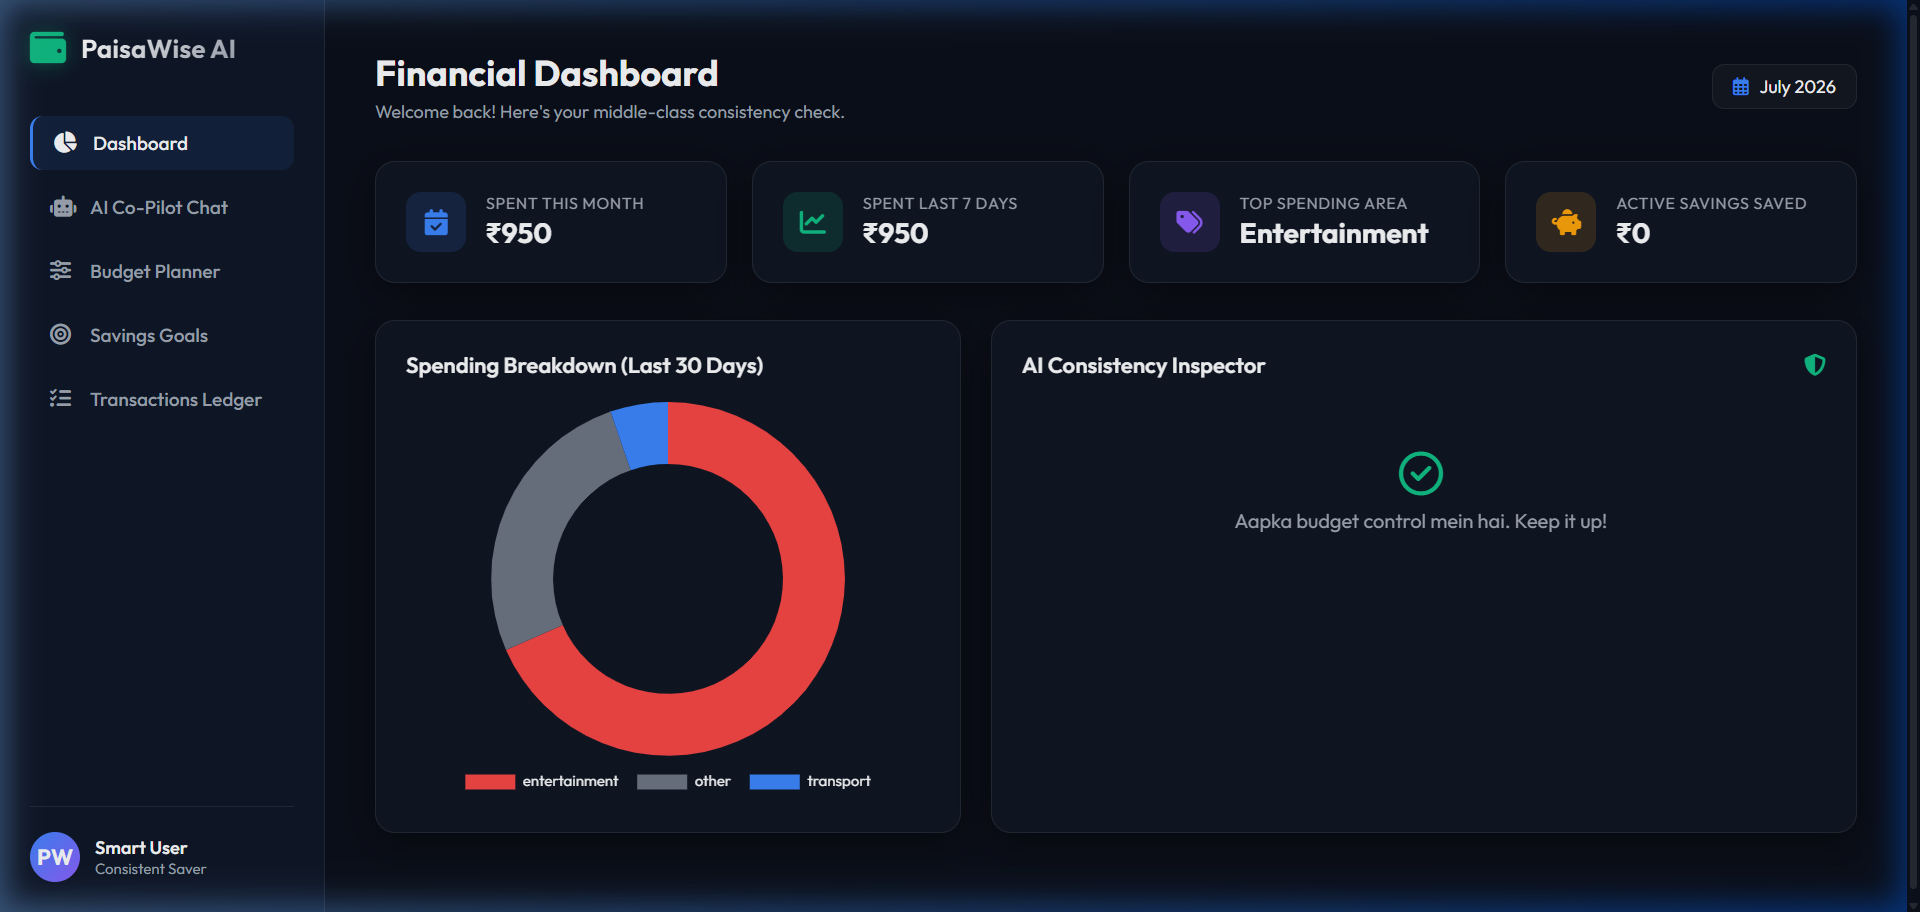
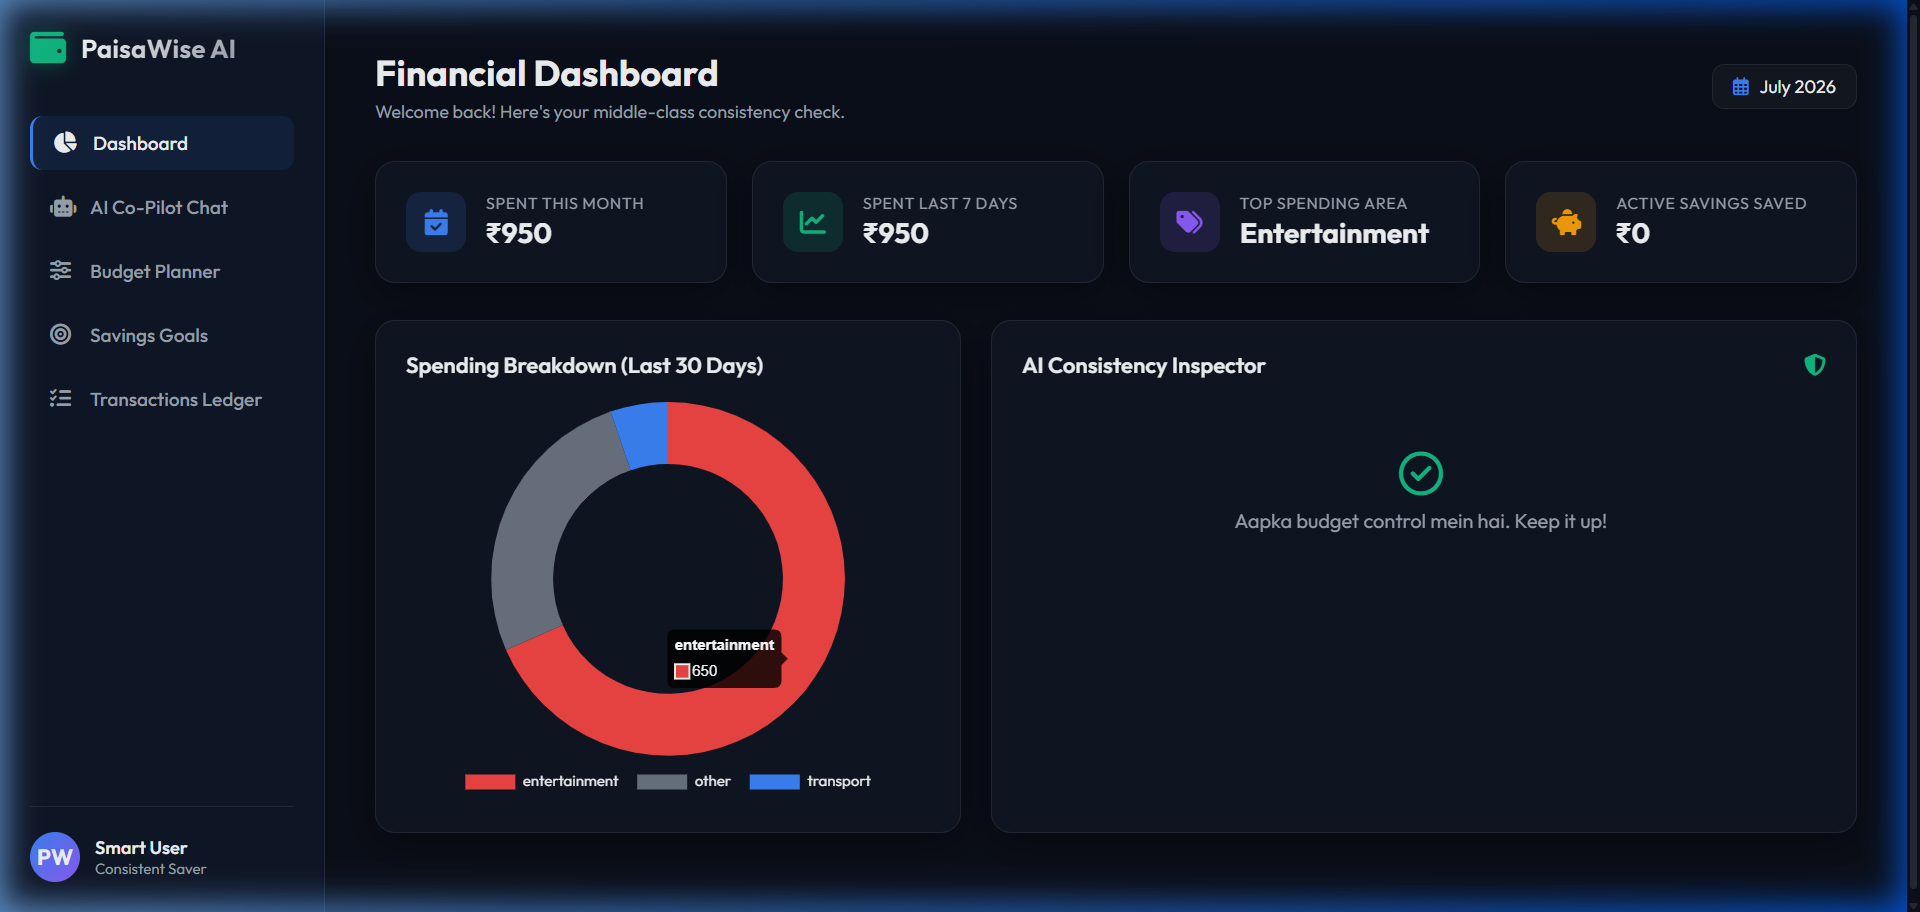
docs: add screenshots for all app pages and tabs

Changed region(s): [[0.0, 0.0, 1.0, 1.0], [0.3438, 0.6754, 0.4062, 0.7675], [0.6562, 0.2456, 0.75, 0.2763]]

diff --git a/README.md b/README.md
@@ -60,9 +60,27 @@ graph TD
 
 ---
 
-## 📊 Dashboard Preview
+## 📊 Application Interface Previews
 
-![PaisaWise Dashboard](images/dashboard-preview.png)
+### 1. Main Dashboard
+Provides real-time analytics, category spending breakdown, and AI consistency alerts.
+![Main Dashboard](images/dashboard-preview.png)
+
+### 2. AI Co-Pilot Chat
+Interact with PaisaWise AI to log expenses via natural language, request advice, and track budgets.
+![AI Co-Pilot Chat](images/copilot-chat-preview.png)
+
+### 3. Budget Planner
+Configure monthly limits per spending category and monitor budget fills dynamically.
+![Budget Planner](images/budget-planner-preview.png)
+
+### 4. Savings Goals
+Create financial milestones, track saved funds, and check progress towards goals.
+![Savings Goals](images/savings-goals-preview.png)
+
+### 5. Transactions Ledger
+View your entire categorized history of logged expenses and manage records easily.
+![Transactions Ledger](images/transactions-ledger-preview.png)
 
 ---
 